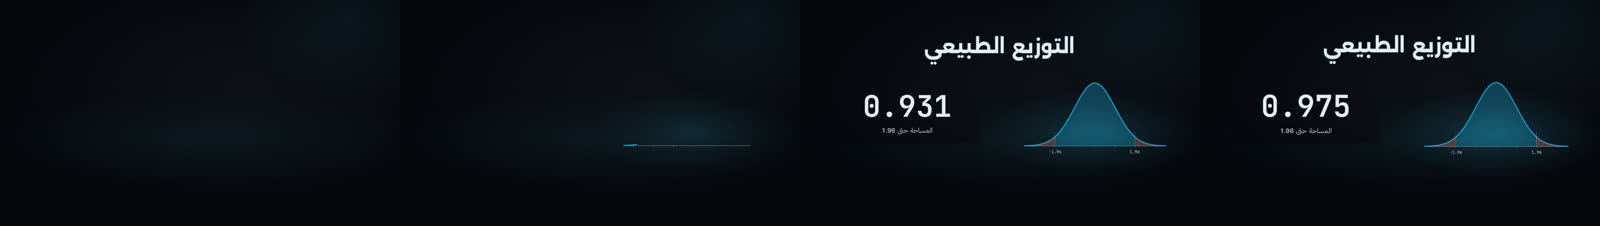
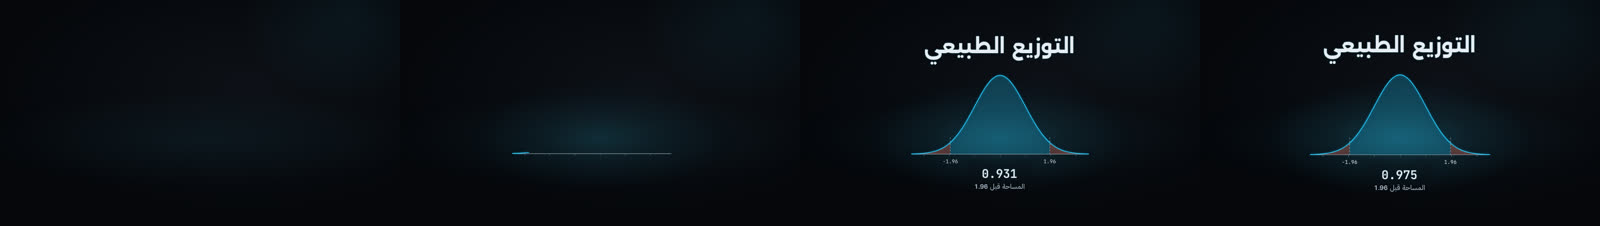
P7 code-media: ManimInsert finished (alpha insert with stage light: signal pool + standard/hero key light; demo = normal curve 95 % area d:6.12:5; snap PASS det 0, baselines pending-critic; perf lite 0.082 / standard 0.137 / hero 0.137 box s/frame; Arabic QA pass)
Claude-Session: https://claude.ai/code/session_01VrU9wxU8GmuhdhWAAHnnQ8

diff --git a/studio/src/demos/code-media.tsx b/studio/src/demos/code-media.tsx
@@ -149,7 +149,7 @@ const demos: DemoModule = {
         layers: [
           {component: 'ManimInsert', props: {id: 'insert', clip: 'demo-normal-95', alpha: true, fit: 'contain', slot: 'center', depth: 'mid'}, at: {word: MI(1), lead_frames: 2}},
           {component: 'KineticWord', props: {id: 'kw', text: 'التوزيع الطبيعي', slot: 'upper-third', size: 'kinetic'}, at: {word: MI(2), lead_frames: 2}},
-          {component: 'NumberCounter', props: {id: 'cnt', to: {value: 0.975, ref: 'd:6.12:5', decimals: 3}, format: 'decimal', label: 'المساحة حتى 1.96', size: 'sub', slot: 'lower-third'}, at: {word: MI(3), lead_frames: 2}},
+          {component: 'NumberCounter', props: {id: 'cnt', to: {value: 0.975, ref: 'd:6.12:5', decimals: 3}, format: 'decimal', label: 'المساحة قبل 1.96', size: 'sub', slot: 'lower-third'}, at: {word: MI(3), lead_frames: 2}},
         ],
       },
     },

diff --git a/docs/p7/catalog_status/code-media.md b/docs/p7/catalog_status/code-media.md
@@ -11,3 +11,4 @@ Rows are added per component by the engineer who finishes it.
 
 Engine note (Terminal): an `inset` box-shadow on a row of the code block made the 50 % frame non-deterministic (about 1,170 px of tile-seam differences over the backdrop) once the 100 % frame had been rendered in the same page. Row rims are therefore drawn as a background gradient layer, never as `box-shadow: inset`. Other components that combine a large masked backdrop with an inset shadow may see the same flake.
 | AIPlate | implemented | Generated, text-free backplate with 2.5D parallax from a depth map (`data/derived/plates/<slug>.png` + `<slug>-depth.png`, depth 0 = far; usable only if ADR-006 enables generated plates). 2D canvas at every tier (no WebGL, so lite / standard / hero differ only in slice count 3 / 5 / 7 and working size 640 / 960 / 1280): the plate is cut once into depth slices (the pixels a nearer slice hides are inpainted from blurred farther colours, so a shift never ghosts) and composited per frame into ONE canvas; one slow lateral drift over the layer life (anchor to `until` or shot end, camera ease) as a pure function of `ctx.frame`, 6 % overscan, fade in over the morph preset, out at `until`; missing plate = marked placeholder in previews, hard failure in finals. Perf finding: the far-plane DOF CSS blur (04 section 1.2) on a full-bleed canvas cost +0.12 box s/frame at standard (0.2535, over budget). AIPlate now takes the plane blur from the layer host (`[data-dc-layer]` filter cleared, like LoopPlate's blend) and bakes the same radius into the slices once, so the look is kept at no per-frame cost. Snap PASS det 0, baselines pending-critic; perf box s/frame at 3 slots lite 0.076 / standard 0.126 / hero 0.134 (budgets 0.201 / 0.201 / 1.038), `reports/perf/components/AIPlate.json`; Arabic QA PASS 1 string (`reports/qa/arabic/p7-AIPlate.json`). Demo: procedural stand-in plate `demo-glass-hall` (`AIPlate/fixtures/make_demo_plate.py`, not an ADR-006 generated plate) behind the term `الـdepth`; no numbers. Distinct from LoopPlate (video loop, no depth) and ManimInsert (alpha clip played once). |
+| ManimInsert | implemented | Alpha-video insert of a Manim-style clip (`data/derived/manim/<clip>.webm` VP9 with alpha, or `<clip>.mp4` when `alpha` is false, + JSON sidecar `{fps, frames, width, height}`), played once from its anchor and held on the last frame. Clip frame is a pure function of `ctx.frame` (idx = floor((t - at) * clipFps / fps), clamped; pinned a quarter frame after the pts, like LoopPlate); fit `contain` / `cover` inside `ctx.box` (the slot after the camera envelope). A Manim clip is a flat drawing, so the insert brings its own light (ADR-003 LK-F, 04 section 1.2): a signal pool under the drawing warms with the clip's progress (and rides `ctx.mod.glow`); standard and hero add a tighter key light over the drawing (static gradients, no per-frame filter; hero hotter by `bloomGL`); `alpha: false` seats the clip on a lit glass card. Fades in over the morph preset from the anchor (RV1: ink on the anchor frame even when the clip's frame 0 is empty), out over exit at `until`. No Arabic in the clip: Arabic is typeset by the type engine on top (whole-word, text-safe). Missing clip = marked placeholder in previews, hard failure in finals. No 3D, so lite / standard / hero differ only by the key light. Demo: `demo-normal-95` (PIL fixture in Manim insert format, `ManimInsert/fixtures/make_demo_clip.py`, not a Manim render; Manim is not installed here) = normal curve with the central area between -1.96 and 1.96, under the term `التوزيع الطبيعي` and a NumberCounter 0.975 (normCdf(1.96), d:6.12:5). Snap PASS det 0 qa 0 (second run vs the new baseline 0 px), baselines pending-critic (`studio/test/baselines/ManimInsert/`, strip `reports/p7/snap/ManimInsert.jpg`). Perf box s/frame at 3 slots, other_jobs_running 0: lite 0.082 / standard 0.137 / hero 0.137 (budgets 0.201 / 0.201 / 1.038), `reports/perf/components/ManimInsert.json`. Arabic QA PASS 2 strings, OCR 2/2 exact (`reports/qa/arabic/p7-ManimInsert.json`); the label reads `المساحة قبل 1.96` because the OCR misreads `حتى` at 28 px as `حق`. Distinct from LoopPlate (looped video, no alpha, no anchor start) and AIPlate (still + depth parallax). |
